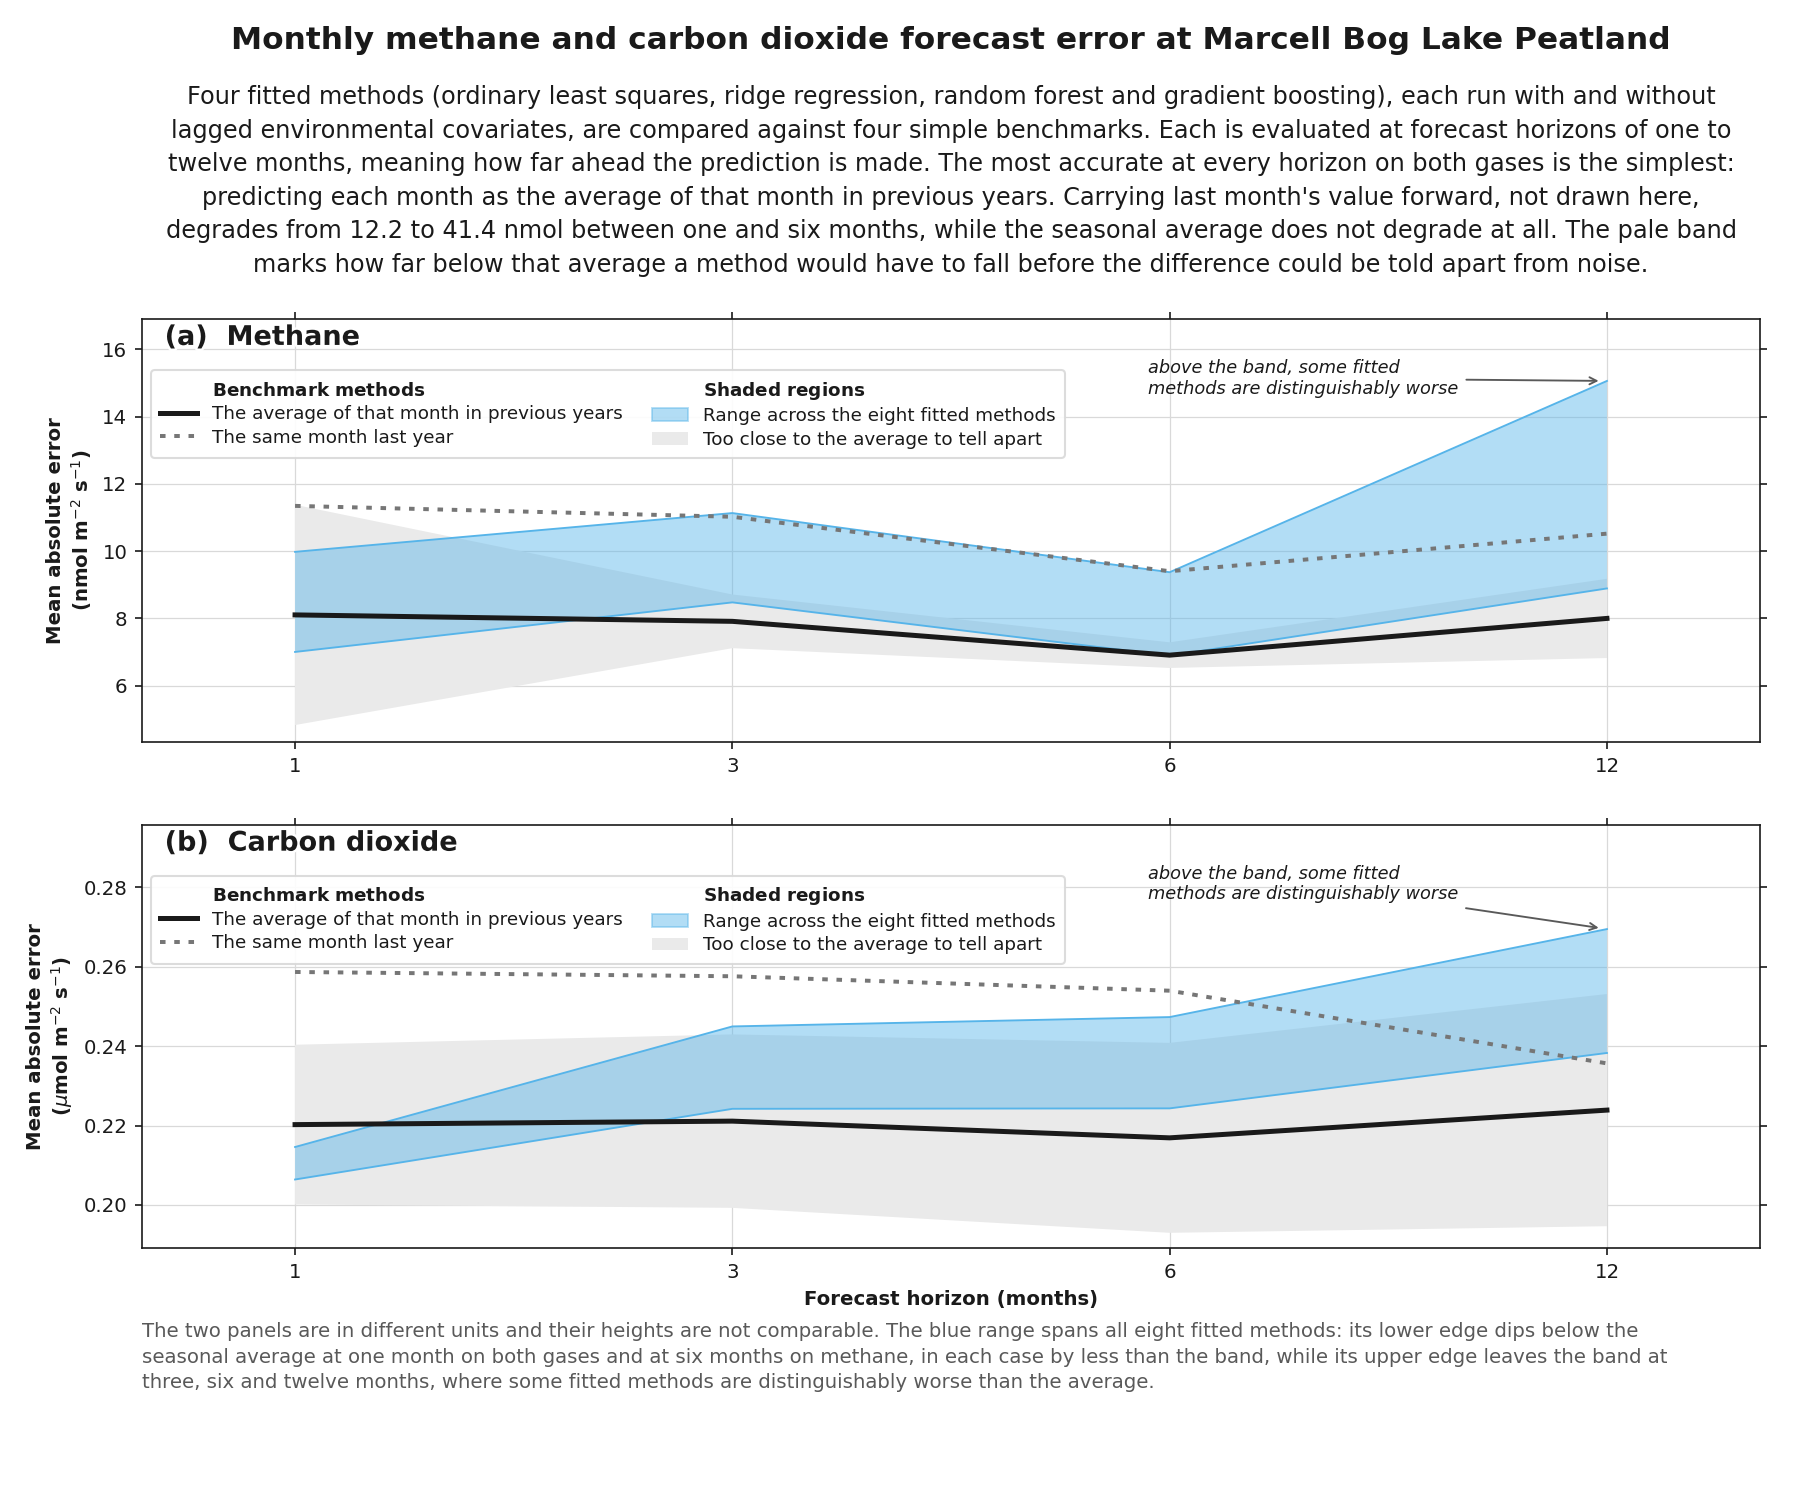
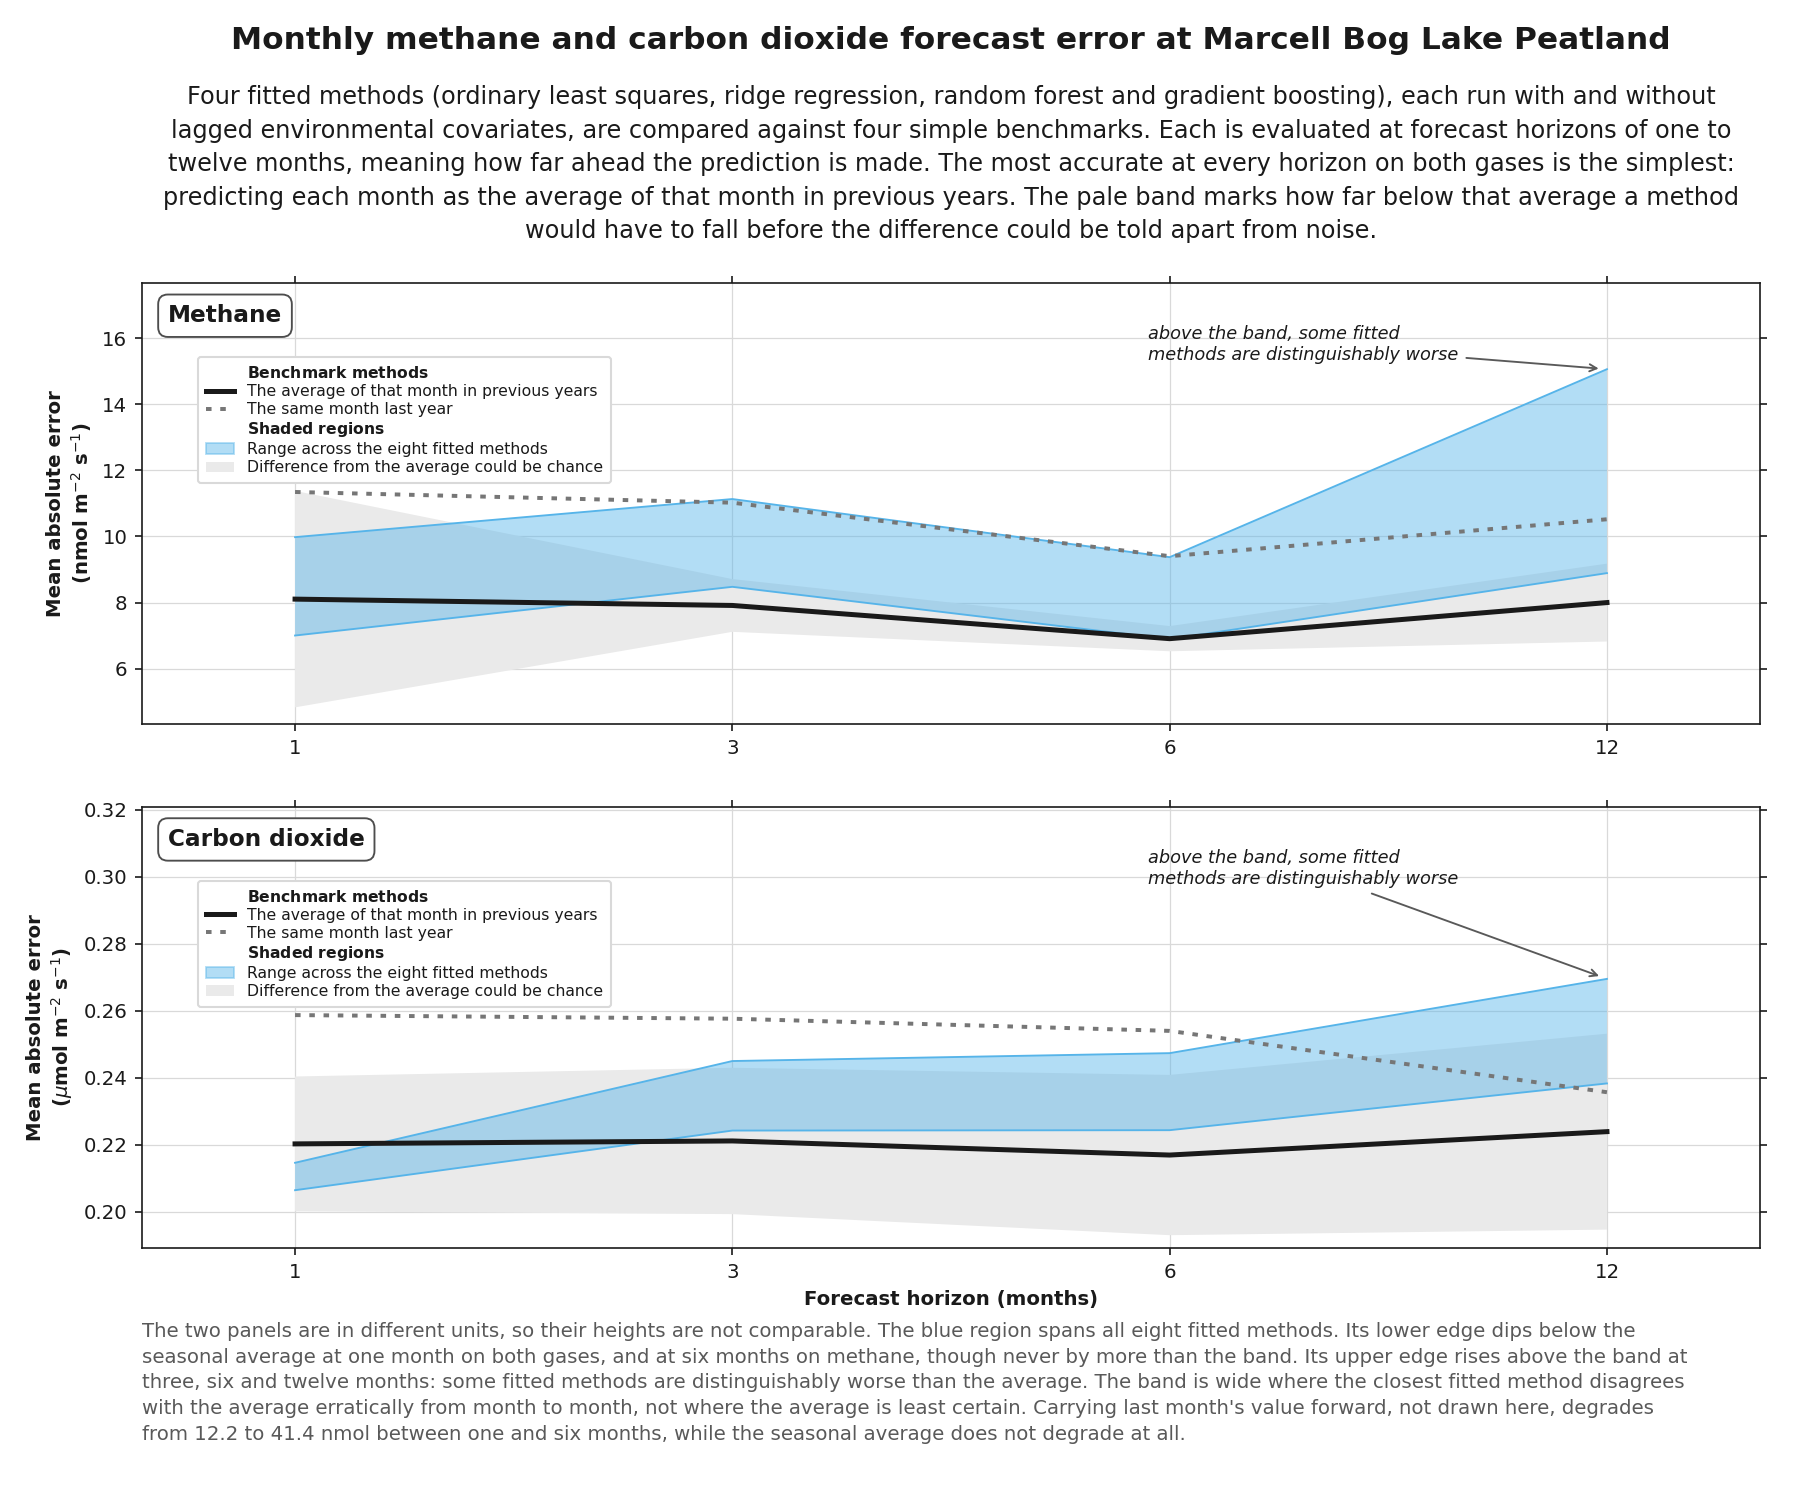
Revise the forecast figure's text and furniture

diff --git a/src/study/figures.py b/src/study/figures.py
@@ -355,19 +355,22 @@ FORECAST_TEXT = ps.FigureText(
         "Each is evaluated at forecast horizons of one to twelve months, meaning "
         "how far ahead the prediction is made. The most accurate at every horizon "
         "on both gases is the simplest: predicting each month as the average of "
-        "that month in previous years. Carrying last month's value forward, not "
-        "drawn here, degrades from 12.2 to 41.4 nmol between one and six months, "
-        "while the seasonal average does not degrade at all. The pale band marks "
-        "how far below that average a method would have to fall before the "
-        "difference could be told apart from noise."
+        "that month in previous years. The pale band marks how far below that "
+        "average a method would have to fall before the difference could be told "
+        "apart from noise."
     ),
     description=(
-        "The two panels are in different units and their heights are not "
-        "comparable. The blue range spans all eight fitted methods: its lower "
-        "edge dips below the seasonal average at one month on both gases and at "
-        "six months on methane, in each case by less than the band, while its "
-        "upper edge leaves the band at three, six and twelve months, where some "
-        "fitted methods are distinguishably worse than the average."
+        "The two panels are in different units, so their heights are not "
+        "comparable. The blue region spans all eight fitted methods. Its lower "
+        "edge dips below the seasonal average at one month on both gases, and at "
+        "six months on methane, though never by more than the band. Its upper "
+        "edge rises above the band at three, six and twelve months: some fitted "
+        "methods are distinguishably worse than the average. The band is wide "
+        "where the closest fitted method disagrees with the average erratically "
+        "from month to month, not where the average is least certain. Carrying "
+        "last month's value forward, not drawn here, degrades from 12.2 to 41.4 "
+        "nmol between one and six months, while the seasonal average does not "
+        "degrade at all."
     ),
 )
 
@@ -447,7 +450,7 @@ def forecast_comparison(panels: dict[str, pd.DataFrame]) -> Figure:
         row = bottom + (1 - index) * (panel_height + gap)
         ax = fig.add_axes((left, row, width, panel_height))
         _draw_forecast_panel(ax, panels[key], unit, labeled=index == len(GAS_PANEL) - 1)
-        ps.panel_letter(ax, "ab"[index], gas, size=ps.SUBTITLE_SIZE + 1.5)
+        ps.panel_name(ax, gas)
         _forecast_legend(ax)
         _raise_top_until_legend_clears(ax)
         axes.append(ax)
@@ -504,19 +507,19 @@ def _forecast_legend(ax) -> None:
     blank = Line2D([], [], linestyle="none", marker="none")
     # Two columns, filled down each in turn, so the two groups sit side by side
     # and the block is short enough to clear the curves across the whole panel.
-    column_one = [(blank, r"$\bf{Benchmark\ methods}$")]
-    column_one += [(Line2D([], [], **style), BENCHMARK_LABEL[method])
-                   for method, style in BENCHMARK_STYLE.items()]
-    column_two = [
+    entries = [(blank, r"$\bf{Benchmark\ methods}$")]
+    entries += [(Line2D([], [], **style), BENCHMARK_LABEL[method])
+                for method, style in BENCHMARK_STYLE.items()]
+    entries += [
         (blank, r"$\bf{Shaded\ regions}$"),
         (Patch(facecolor=ps.FITTED, alpha=ps.FITTED_FILL_ALPHA, edgecolor=ps.FITTED,
                linewidth=0.9), "Range across the eight fitted methods"),
         (Patch(facecolor=ps.NOT_DISTINGUISHABLE, edgecolor="none"),
-         "Too close to the average to tell apart"),
+         "Difference from the average could be chance"),
     ]
-    entries = column_one + column_two
-    # Anchored below the panel name, which occupies the top-left corner.
+    # One column and inset from the corner: two columns reached most of the way
+    # across the plot area, and sitting against the border read as attached to it.
     ps.legend(ax, handles=[h for h, _ in entries], labels=[label for _, label in entries],
-              loc="upper left", bbox_to_anchor=(0.0, 0.90), ncol=2, borderpad=0.5,
-              labelspacing=0.3, columnspacing=1.6, handlelength=2.0,
-              fontsize=ps.LEGEND_SIZE - 0.7)
+              loc="upper left", bbox_to_anchor=(0.03, 0.85), borderpad=0.5,
+              labelspacing=0.2, handlelength=1.8, fontsize=ps.LEGEND_SIZE - 2.0,
+              framealpha=1.0)

diff --git a/src/study/plotstyle.py b/src/study/plotstyle.py
@@ -550,6 +550,21 @@ def panel_letter(ax: plt.Axes, letter: str, label: str | None = None,
                 color=INK, zorder=8, path_effects=[_outline()])
 
 
+def panel_name(ax: plt.Axes, name: str, x: float = 0.016, y: float = 0.952) -> None:
+    """Name a panel in a bordered box, which carries the emphasis size otherwise would.
+
+    Used where the panels differ in what they show rather than in which step of an
+    argument they carry, so the name is the label and no letter is needed. Seated
+    below the top of the axes rather than against it: the padded box is drawn
+    outside the text extent, so an anchor that measures as inside can still cross
+    the spine.
+    """
+    ax.annotate(name, xy=(x, y), xycoords="axes fraction", ha="left", va="top",
+                fontsize=LEGEND_SIZE + 1.6, fontweight="bold", color=INK, zorder=9,
+                bbox=dict(boxstyle="round,pad=0.42", facecolor="white",
+                          edgecolor=BOUNDARY, linewidth=0.9))
+
+
 def figures_dir() -> Path:
     """Directory the figure set is written to, tracked so the README resolves."""
     return paths.repo_root() / "figures"

diff --git a/tests/test_forecast_figure.py b/tests/test_forecast_figure.py
@@ -227,14 +227,14 @@ def test_the_panel_name_is_larger_than_a_legend_entry():
     ps.plt.close(fig)
 
 
-def test_the_subtitle_quotes_the_persistence_values_the_data_holds():
-    """The subtitle states what the panel no longer draws, so it has to be checked.
+def test_the_description_quotes_the_persistence_values_the_data_holds():
+    """The text states what the panel no longer draws, so it has to be checked.
 
     This is the one test here that reads the scored forecasts rather than a
     synthetic frame, because that is the thing being checked.
     """
     table = real_panel("methane")
-    said = figures.FORECAST_TEXT.subtitle
+    said = figures.FORECAST_TEXT.description
     at_one = table.loc[table["horizon"] == 1, "naive"].iloc[0]
     at_six = table.loc[table["horizon"] == PERSISTENCE_LAST, "naive"].iloc[0]
     assert f"{at_one:.1f}" in said, f"subtitle should quote {at_one:.1f}"

diff --git a/notes/study.md b/notes/study.md
@@ -1496,6 +1496,41 @@ does not appear at all. It was chosen so the gases could be
 compared on one footing and does not deliver that, so removing the measure
 removes the axis a reader could misuse, which is stronger than labeling it.
 
+**What sets the band's width, which is not what a reader first assumes.** The
+half-width at each horizon is a critical value times the long-run standard
+deviation of the loss differential, divided by the root of the sample size. The
+sample size varies modestly across horizons; the standard deviation of the
+differential varies enormously, and it dominates:
+
+| gas | horizon | sd of the month-to-month difference in absolute error | effective n | band half-width |
+|---|---|---|---|---|
+| methane | 1 | **9.744** | 35.6 | **3.273** |
+| methane | 3 | 2.160 | 31.4 | 0.798 |
+| methane | 6 | 1.449 | 68.8 | 0.381 |
+| methane | 12 | 3.064 | 39.3 | 1.177 |
+| carbon dioxide | 1 | 0.091 | 80.4 | 0.020 |
+| carbon dioxide | 3 | 0.095 | 79.3 | 0.022 |
+| carbon dioxide | 6 | 0.101 | 80.1 | 0.024 |
+| carbon dioxide | 12 | 0.073 | 32.4 | 0.029 |
+
+The methane band is a wedge, reaching from 8.1 down to 4.8 at one month and
+narrowing to a sliver by six. **That is not a statement that short horizons are
+uncertain.** At one month the closest method is ridge, which puts near-unit weight
+on last month's departure from the seasonal mean, so its errors differ from
+climatology's erratically month to month: the standard deviation of that
+difference is 9.744, larger than climatology's own mean absolute error of 8.106.
+A method whose advantage is concentrated in a few months, which is exactly what
+the 2015 examination found, produces a high-variance loss differential and
+therefore a wide band. At six months the closest method is a gradient boosting
+fit that tracks climatology closely, the differential has a standard deviation of
+1.449, and a much smaller gap would be detectable.
+
+So the band answers "how large a difference would be needed here", and the answer
+depends on how erratically the two methods being compared disagree, not on how
+well the seasonal average is known. The description says so, because a reader
+would otherwise read the wedge as uncertainty and draw the opposite conclusion
+from the one the study reached.
+
 **The pale band is an inverted Diebold-Mariano test.** `evaluation.significance_margin`
 returns the difference in mean absolute error that would have reached p = 0.05
 given the observed noise in the loss differential, so a method inside the band is
@@ -1544,6 +1579,12 @@ Each panel now spans what its drawn series occupy: 4.8 to 15.1 on methane and
 from six months to twelve is twice the step from three to six, which stretches the
 curves for a reason that has nothing to do with the forecasts. No tick is drawn at
 nine, because nothing was evaluated there.
+
+**The subtitle ends on the band; the panel notes sit at the bottom.** The
+persistence fact was briefly put in the subtitle, where it fell between the
+finding and the explanation of the band and pushed that block to six lines. It
+belongs with the other panel notes in the description, and a test checks that the
+figures it quotes are the ones the data holds.
 
 **The legend's headroom is measured rather than fixed.** How much room it needs
 depends on its own rendered height and on how high the series run beneath it,

diff --git a/figures/README_fragments.md b/figures/README_fragments.md
@@ -26,6 +26,6 @@ Each marker is one year's emission in grams of carbon per square meter, from rel
 
 ![Monthly methane and carbon dioxide forecast error at Marcell Bog Lake Peatland](figures/forecast_comparison.png)
 
-**Four fitted methods (ordinary least squares, ridge regression, random forest and gradient boosting), each run with and without lagged environmental covariates, are compared against four simple benchmarks. Each is evaluated at forecast horizons of one to twelve months, meaning how far ahead the prediction is made. The most accurate at every horizon on both gases is the simplest: predicting each month as the average of that month in previous years. Carrying last month's value forward, not drawn here, degrades from 12.2 to 41.4 nmol between one and six months, while the seasonal average does not degrade at all. The pale band marks how far below that average a method would have to fall before the difference could be told apart from noise.**
+**Four fitted methods (ordinary least squares, ridge regression, random forest and gradient boosting), each run with and without lagged environmental covariates, are compared against four simple benchmarks. Each is evaluated at forecast horizons of one to twelve months, meaning how far ahead the prediction is made. The most accurate at every horizon on both gases is the simplest: predicting each month as the average of that month in previous years. The pale band marks how far below that average a method would have to fall before the difference could be told apart from noise.**
 
-The two panels are in different units and their heights are not comparable. The blue range spans all eight fitted methods: its lower edge dips below the seasonal average at one month on both gases and at six months on methane, in each case by less than the band, while its upper edge leaves the band at three, six and twelve months, where some fitted methods are distinguishably worse than the average.
+The two panels are in different units, so their heights are not comparable. The blue region spans all eight fitted methods. Its lower edge dips below the seasonal average at one month on both gases, and at six months on methane, though never by more than the band. Its upper edge rises above the band at three, six and twelve months: some fitted methods are distinguishably worse than the average. The band is wide where the closest fitted method disagrees with the average erratically from month to month, not where the average is least certain. Carrying last month's value forward, not drawn here, degrades from 12.2 to 41.4 nmol between one and six months, while the seasonal average does not degrade at all.
